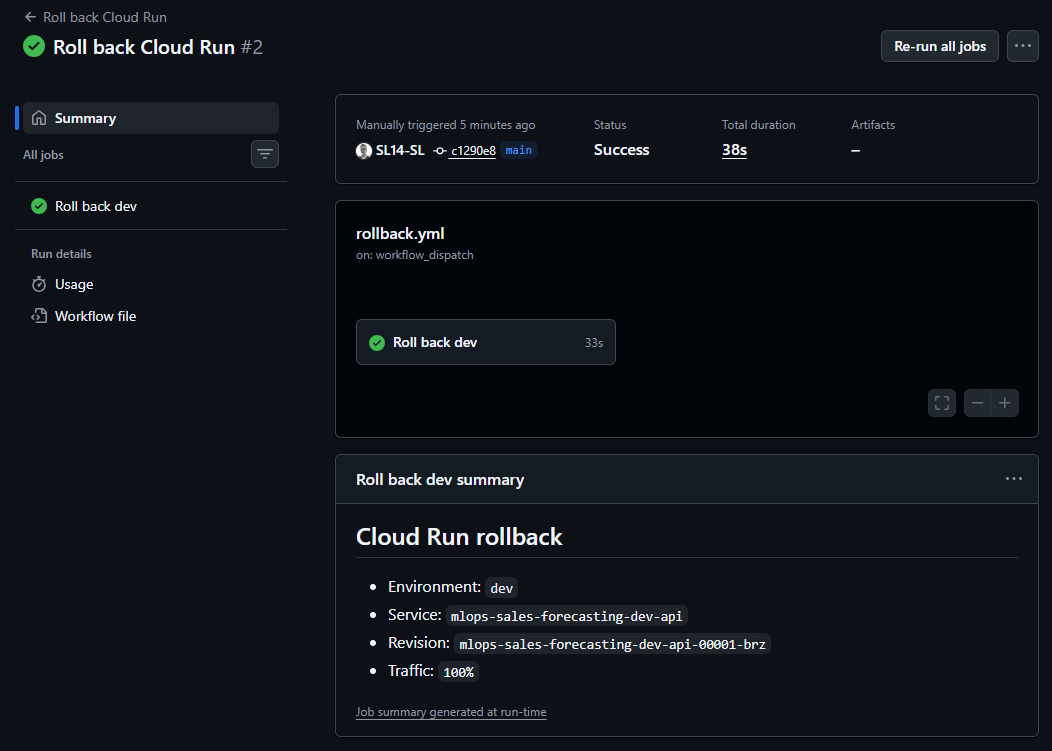
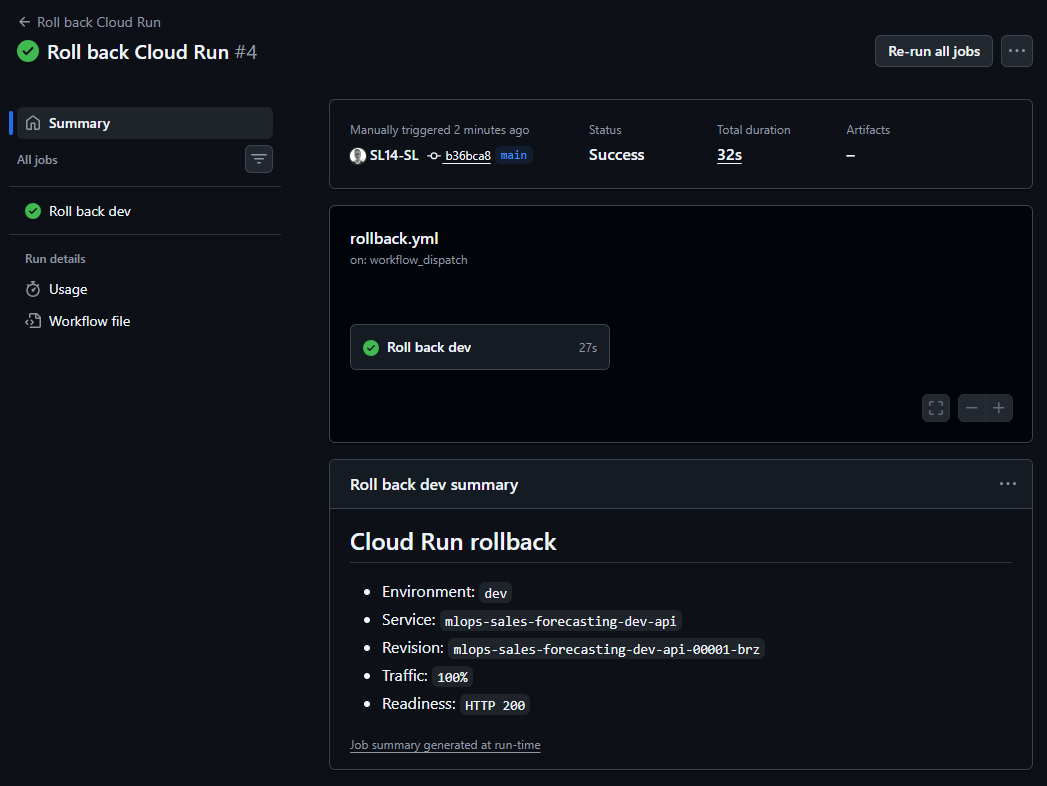
docs: add automated rollback readiness evidence

diff --git a/docs/cloud-deployment-and-rollback.md b/docs/cloud-deployment-and-rollback.md
@@ -165,18 +165,21 @@ service traffic. Revision `00001-brz` remained available as the rollback
 target.
 
 GitHub Actions run
-[`37000992162`](https://github.com/SL14-SL/mlops-sales-forecasting-next/actions/runs/37000992162)
+[`37005823895`](https://github.com/SL14-SL/mlops-sales-forecasting-next/actions/runs/37005823895)
 then executed the rollback workflow. The workflow:
 
 1. resolved the requested target revision;
 2. verified that the target revision was ready;
 3. routed 100 percent of Cloud Run traffic to the target;
-4. verified the resulting traffic assignment.
+4. verified the resulting traffic assignment;
+5. minted a service-account identity token for the private Cloud Run service;
+6. called `/readyz` with the service URI as token audience;
+7. required an HTTP `200` readiness response before completing successfully.
 
 <p align="center">
   <img
     src="images/cloud-run-rollback.png"
-    alt="Successful Cloud Run rollback with all traffic routed to the previous revision"
+    alt="Successful Cloud Run rollback with full traffic restoration and HTTP 200 readiness verification"
     width="900"
   >
 </p>
@@ -198,15 +201,17 @@ revision.
 
 ## Post-rollback verification
 
-After rollback, the service was tested again through the private Cloud Run
-URL.
+After rollback, the workflow authenticated to the private Cloud Run service
+through Workload Identity Federation and required `/readyz` to return HTTP
+`200`. An authenticated prediction request was also verified against the
+rolled-back revision.
 
 The results were:
 
 | Check | Result |
 |---|---:|
 | Traffic assigned to rollback target | `100%` |
-| Authenticated `/readyz` | HTTP `200` |
+| Automated authenticated `/readyz` | HTTP `200` |
 | Authenticated `/predict` | HTTP `200` |
 | Active serving release | `release-9f2f0965-ab8d-4517-bc9e-3b1f5a2c6558` |
 | Prediction | `6148.34` |
